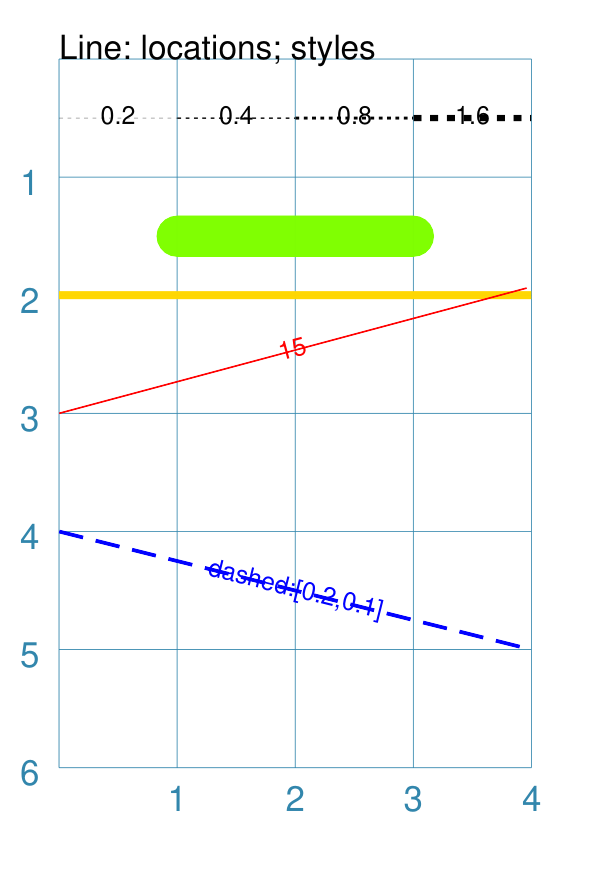
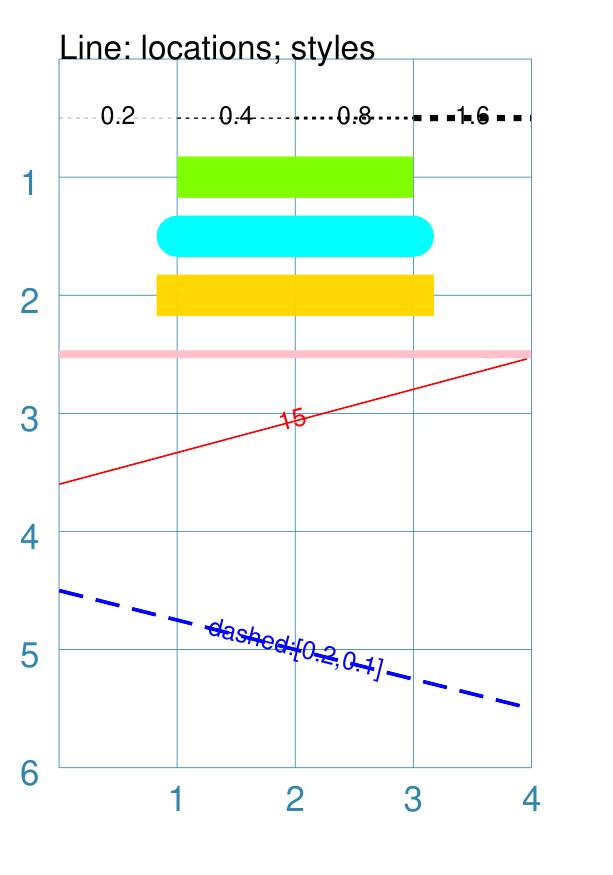
Add squared line ends and updated docs.

diff --git a/protograf/base.py b/protograf/base.py
@@ -251,6 +251,7 @@ class BaseCanvas:
         self.line_cap = self.defaults.get("line_cap", None)
         self.dotted = self.defaults.get("dotted", self.defaults.get("dotted", False))
         self.dashed = self.defaults.get("dashed", None)
+        self.squared = self.defaults.get("squared", False)
         # ---- text: base
         self.text = self.defaults.get("text", "")
         self.text_size = self.defaults.get("text_size", self.font_size)
@@ -355,7 +356,7 @@ class BaseCanvas:
         self.y_3 = self.defaults.get("y3", 1)
         # ---- rectangle / card
         self.rounding = self.defaults.get("rounding", 0)
-        self.rounded = self.defaults.get("rounded", False)
+        self.rounded = self.defaults.get("rounded", False)  # also line end
         self.notch = self.defaults.get("notch", 0)
         self.notch_corners = self.defaults.get("notch_corners", "sw nw ne se")
         self.notch_x = self.defaults.get("notch_x", 0)
@@ -658,6 +659,7 @@ class BaseShape:
         self.line_cap = kwargs.get("line_cap", base.line_cap)
         self.dotted = kwargs.get("dotted", kwargs.get("dots", base.dotted))
         self.dashed = kwargs.get("dashed", base.dashed)
+        self.squared = kwargs.get("squared", base.squared)
         # ---- fill color
         self.fill = kwargs.get("fill", kwargs.get("fill_color", base.fill))
         self.fill_transparency = kwargs.get("fill_transparency", base.fill_transparency)
@@ -812,7 +814,7 @@ class BaseShape:
         self.y_3 = self.kw_float(kwargs.get("y3", base.y_3))
         # ---- rectangle / card
         self.rounding = self.kw_float(kwargs.get("rounding", base.rounding))
-        self.rounded = kwargs.get("rounded", base.rounded)
+        self.rounded = kwargs.get("rounded", base.rounded)  # also line end
         self.notch = self.kw_float(kwargs.get("notch", base.notch))
         self.notch_corners = kwargs.get("notch_corners", base.notch_corners)
         self.notch_x = self.kw_float(kwargs.get("notch_x", base.notch_x))

diff --git a/examples/core/customised_shapes.py b/examples/core/customised_shapes.py
@@ -334,10 +334,14 @@ Line(x=0, y=0.5, stroke_width=0.2, dotted=True, label="0.2", font_size=6)
 Line(x=1, y=0.5, stroke_width=0.4, dotted=True, label="0.4", font_size=6)
 Line(x=2, y=0.5, stroke_width=0.8, dotted=True, label="0.8", font_size=6)
 Line(x=3, y=0.5, stroke_width=1.6, dotted=True, label="1.6", font_size=6)
-Line(x=0, y=2, length=4, stroke="gold", stroke_width=2)
-Line(x=1, y=1.5, length=2, stroke="chartreuse", stroke_width=10, rounded=True)
-Line(x=0, y=3, length=4.1, angle=15, stroke="red", label="15", font_size=6)
-Line(x=0, y=4, x1=4, y1=5, stroke="blue", stroke_width=1,
+
+Line(x=1, y=1, length=2, stroke="chartreuse", stroke_width=10)
+Line(x=1, y=1.5, length=2, stroke="aqua", stroke_width=10, rounded=True)
+Line(x=1, y=2, length=2, stroke="gold", stroke_width=10, squared=True)
+
+Line(x=0, y=2.5, length=4, stroke="pink", stroke_width=2)
+Line(x=0, y=3.6, length=4.1, angle=15, stroke="red", label="15", font_size=6)
+Line(x=0, y=4.5, x1=4, y1=5.5, stroke="blue", stroke_width=1,
      dashed=[0.2, 0.1], label="dashed:[0.2,0.1]", font_size=6)
 PageBreak()
 

diff --git a/protograf/utils/tools.py b/protograf/utils/tools.py
@@ -1704,7 +1704,11 @@ def get_pymupdf_props(
         opacity = 1 - _transparency
     stroke_width = kwargs.get("stroke_width", None)
     # stroke_cap = 1 if kwargs.get("stroke_cap", False) else 0  # rounded end line
-    stroke_cap = 1 if kwargs.get("rounded", False) else 0  # rounded end line
+    stroke_cap = 0
+    if kwargs.get("rounded", False):
+        stroke_cap = 1  # rounded end line
+    if kwargs.get("squared", False):
+        stroke_cap = 2  # semi-square; edge length of line width & center at line end
     dotted = kwargs.get("dotted", None)
     dashed = kwargs.get("dashed", None)
     _rotation = kwargs.get("rotation", None)  # calling Shape must set a tuple!

diff --git a/docs/source/customised_shapes.rst b/docs/source/customised_shapes.rst
@@ -73,7 +73,8 @@ A Line has the following properties, in addition to the basic ones of
   the second is the length of the space between each dash
 - *length* - sets the specific size of the line; used in conjunction
   with *angle* (which defaults to 0 |deg|)
-- *rounded* - if ``True``, draw small semicircles at the ends of the line
+- *rounded* - if ``True``, draw small circles, centred at the ends of the line
+- *squared* - if ``True``, draw small squares, centred at the ends of the line
 - *stroke* - the color of the line
 - *stroke_width* - the thickness of the line, in points
 - *x1* and *y1* - a fixed endpoint for the line end (if not calculated by
@@ -117,24 +118,35 @@ Example 1. Dotted, Dashed and Angled Lines
             stroke_width=1.6, dotted=True,
             label="1.6", font_size=6)
 
-        # colored lines
+        # thick colored lines
         Line(
-            x=0, y=4, x1=4, y1=5,
+            x=1, y=1, stroke_width=10,
+            length=2, stroke="chartreuse",
+            )
+        Line(
+            x=1, y=1.5, stroke_width=10,
+            length=2, stroke="aqua",
+            rounded=True)
+        Line(
+            x=1, y=2, stroke_width=10,
+            length=2, stroke="gold",
+            squared=True)
+
+        # thin colored lines
+        Line(
+            x=0, y=4.5, x1=4, y1=5.5,
             stroke="blue", stroke_width=1,
             dashed=[0.2, 0.1],
             label="dashed:[0.2,0.1]", font_size=6)
         Line(
-            x=0, y=3,
+            x=0, y=3.6,
             length=4.1, angle=15,
             stroke="red",
             label="15", font_size=6)
         Line(
-            x=0, y=2, length=4,
-            stroke="gold", stroke_width=2)
-        Line(
-            x=1, y=1.5, length=2,
-            stroke="chartreuse", stroke_width=10,
-            rounded=True)
+            x=0, y=2.5, length=4,
+            stroke="pink", stroke_width=2)
+
 
       The various black lines have these properties:
 
@@ -143,32 +155,36 @@ Example 1. Dotted, Dashed and Angled Lines
       - *stroke_width* - set as value in points and labelled accordingly
       - *dotted* - has a value of ``True``
 
-      The dotted line is just a series of small lines i.e. the "dots",
-      followed by gaps, of sizes equal to the line's *stroke_width*.
+      The dotted line is just a series of small lines i.e. all of the "dots",
+      followed by gaps, are of sizes equal to the line's *stroke_width*.
 
       The thin red line has:
 
       - *angle* - of ``15`` |deg| from the baseline, clockwise
 
       The angle guides the direction in which the line is drawn; if not
-      given |dash| as in the case of the thick green line |dash| this
+      given |dash| as in the case of most of the other lines |dash| this
       will be 0 |deg|. The line length is then calculated based on these
       points.
 
-      The thick green, thick gold and thin red lines all have:
+      The green, gold, pink, red and aqua lines all have:
 
       - *x* and *y* set as their starting point
       - *length* - sets the specific size of the line
 
-      The thick green line and the thick gold line do **not** have
+      The thick green, gold, aqua and pink lines do **not** have
       any *angle* property; this defaults to 0 |deg| which means the
       line is drawn to the "east" (or right of the start).
 
+      The thick aqua line has:
+
+      - *rounded* set to ``True`` so circles are drawn at line end centres
+
       The thick gold line has:
 
-      - *rounded* set to ``True`` so semi-circles are drawn at line ends
+      - *squared* set to ``True`` so squares are drawn at line end centres
 
-      The medium blue line has:
+      The dark blue line has:
 
       - *dashed* - length of ``2`` mm and spacing of ``1`` mm
       - *x1* and *y1* set as the ending point
@@ -403,7 +419,6 @@ The following properties can be set:
       positions.
 
 ===== ======
-
 
 
 .. _rectangleIndex:
